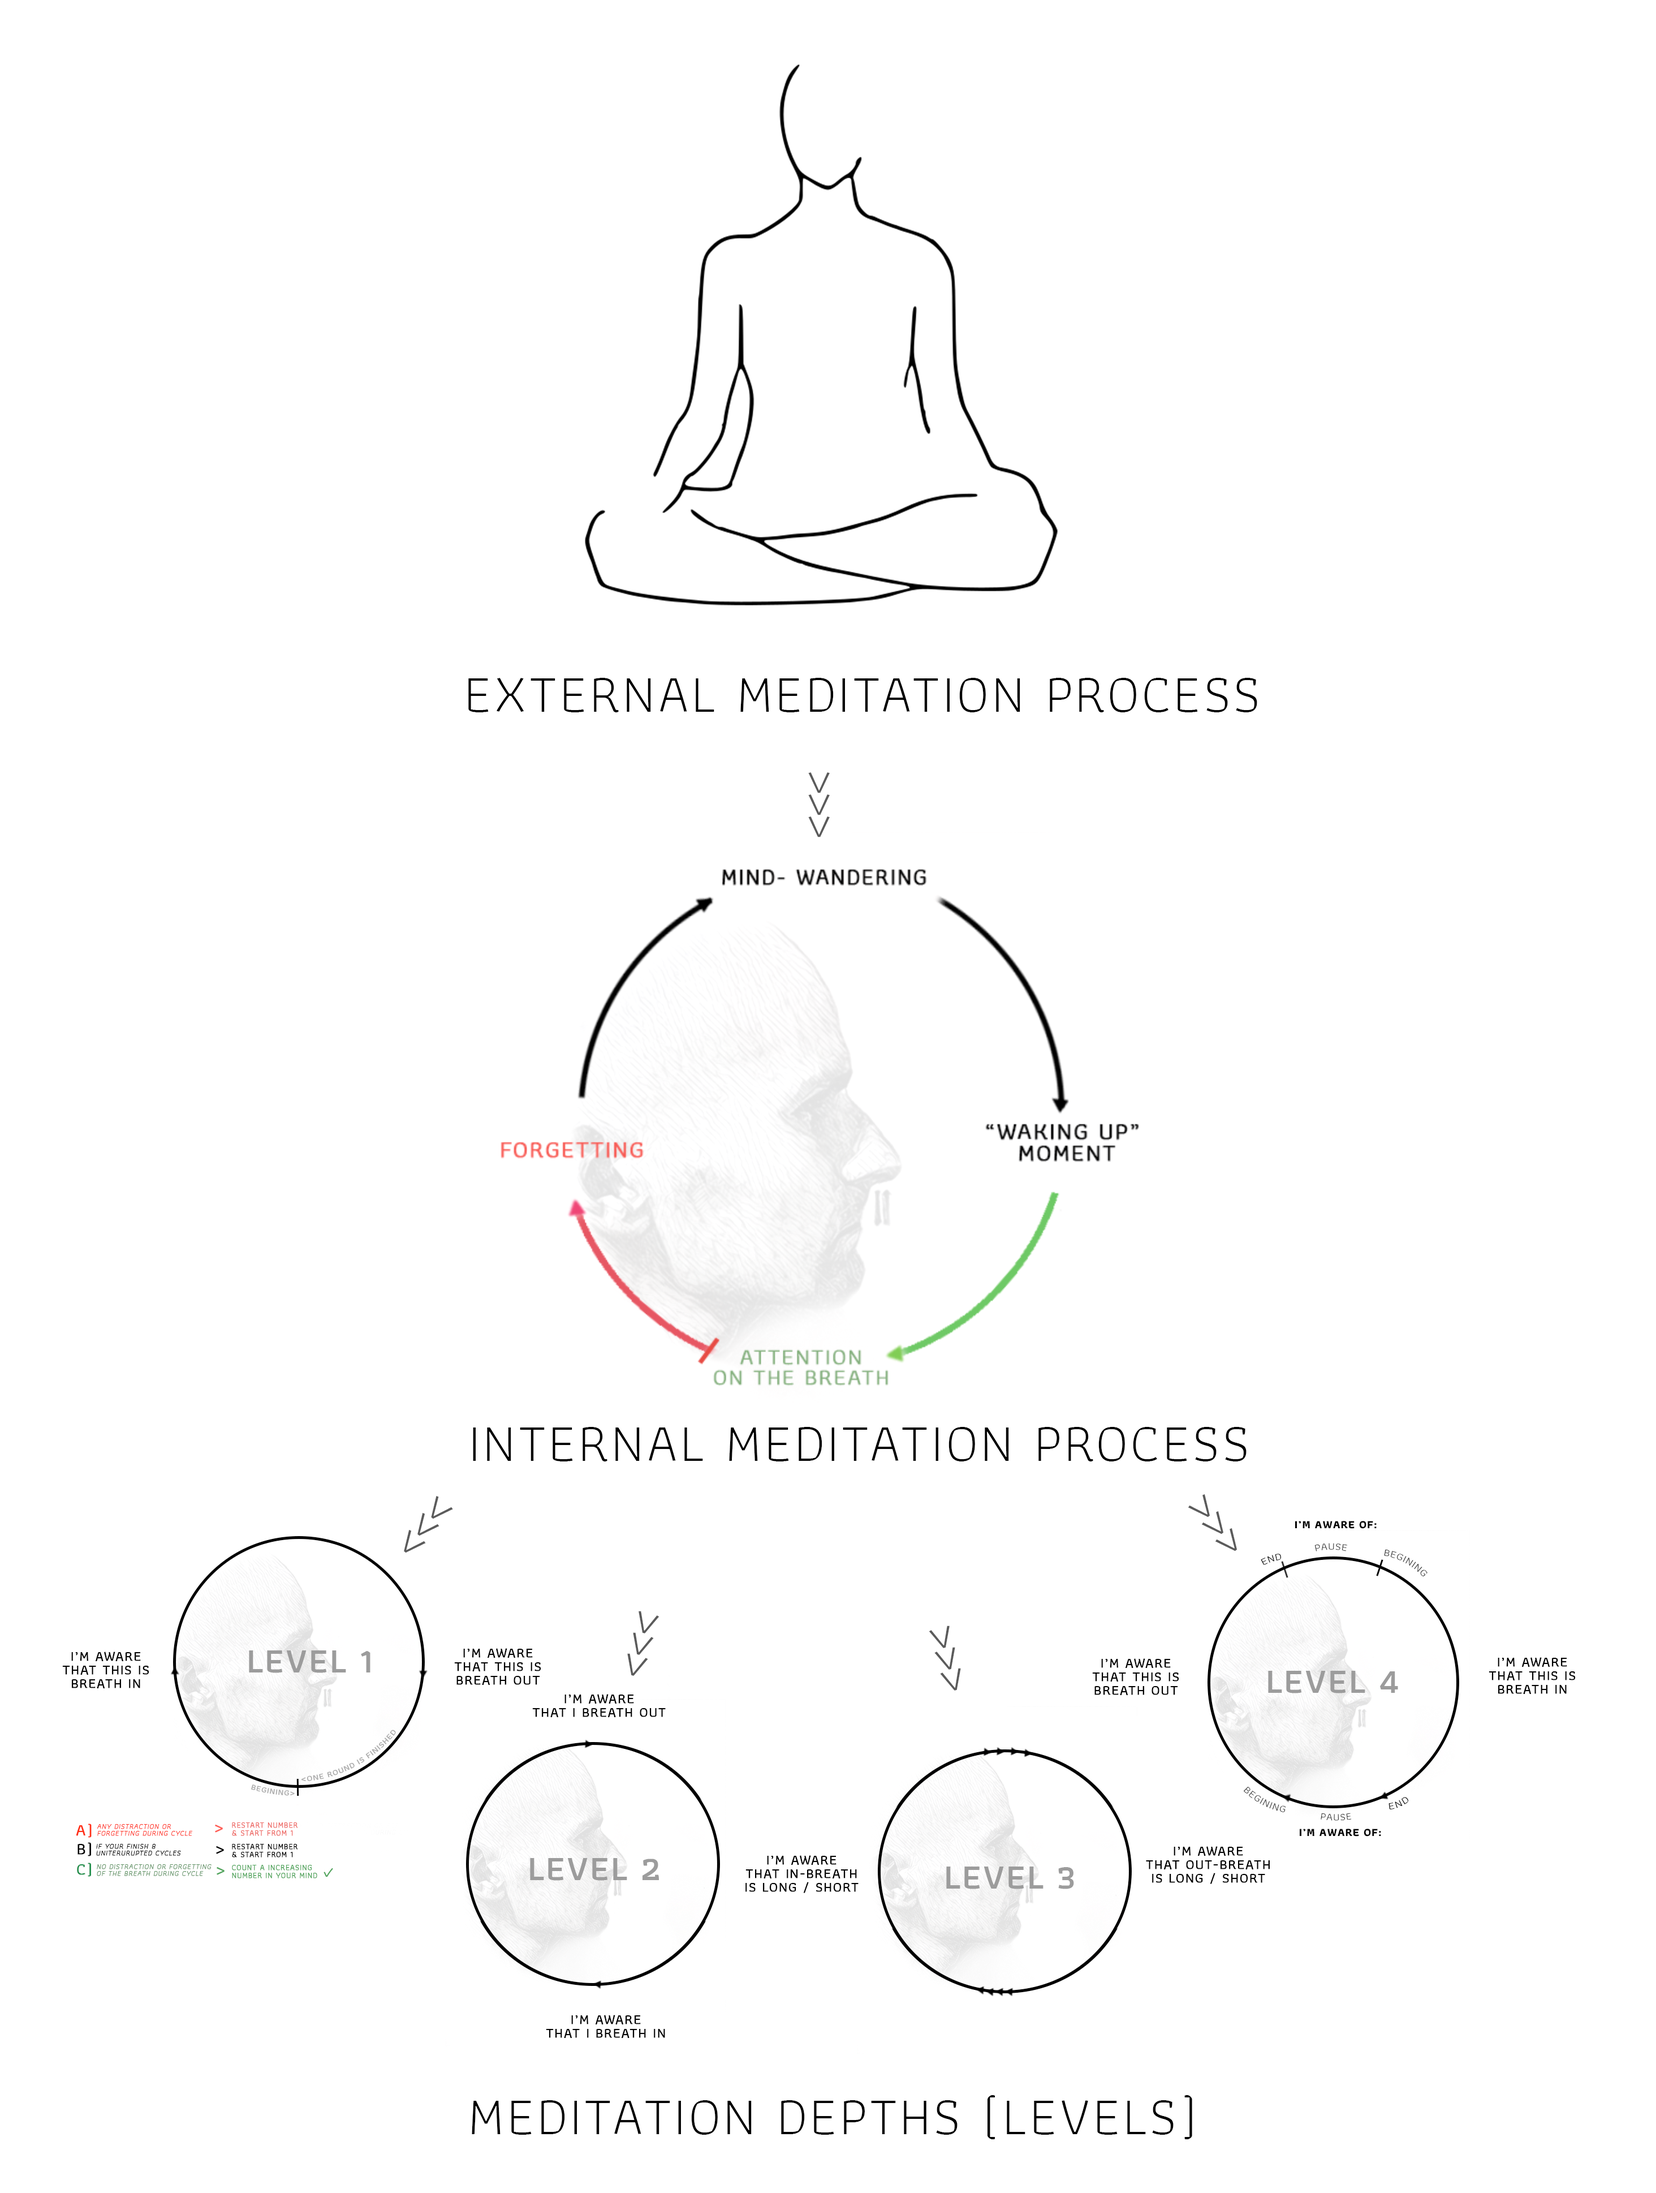
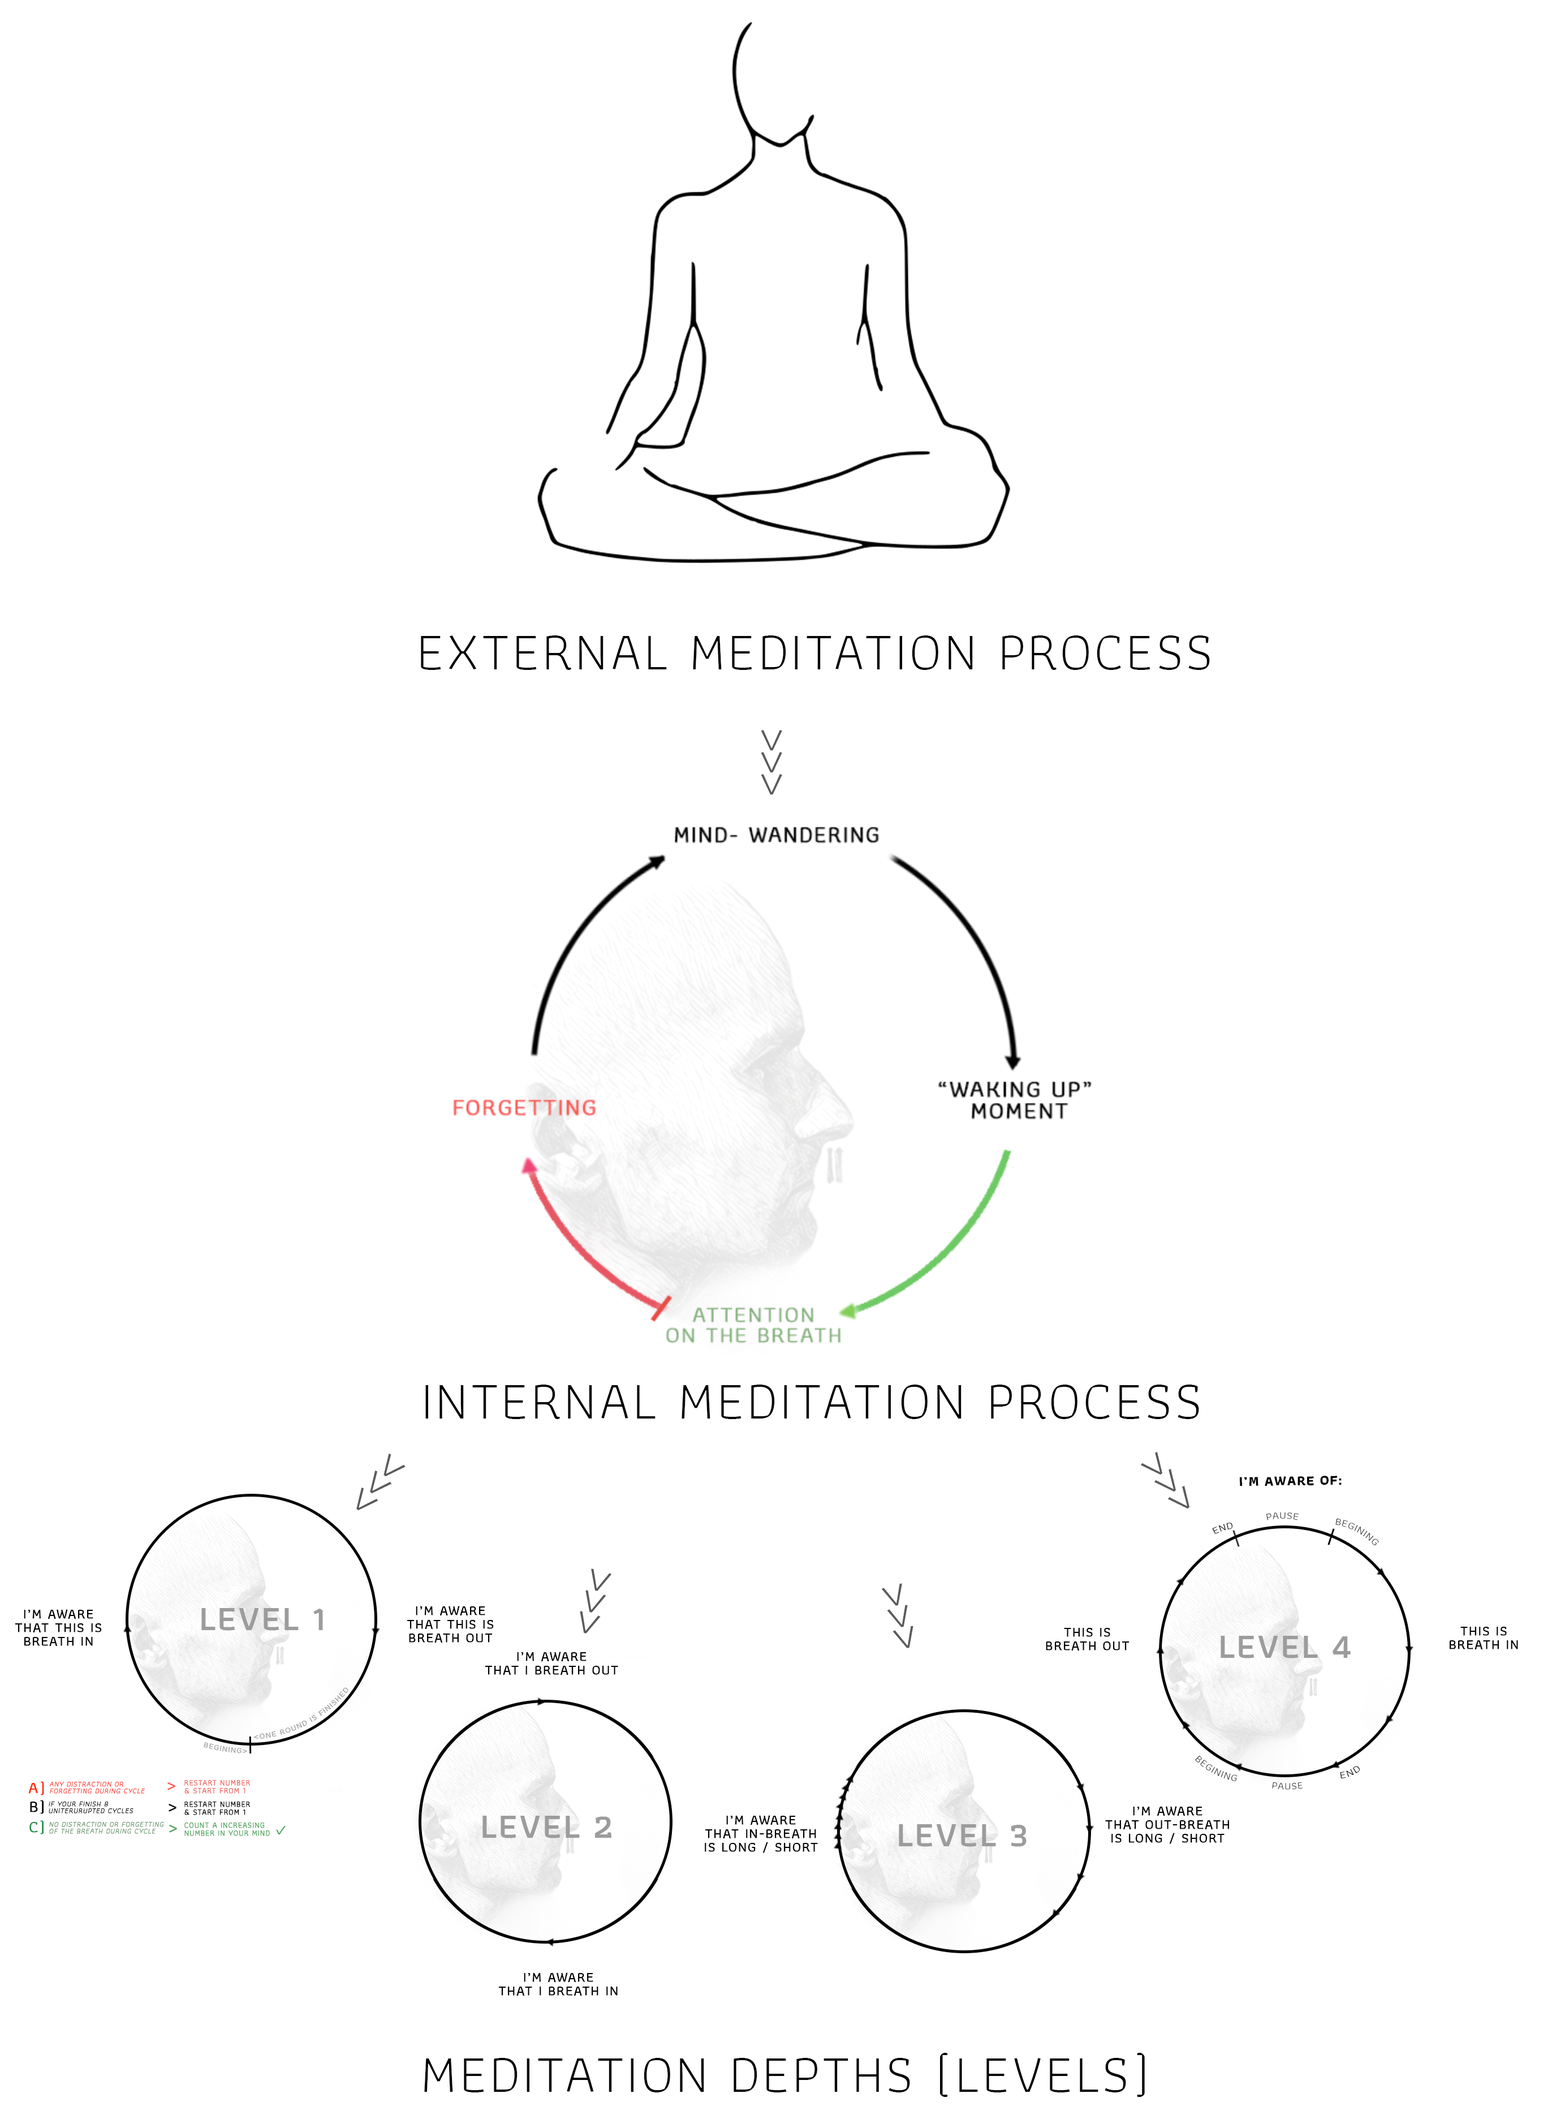
GitBook: [master] one page and 3 assets modified

diff --git a/meditation-anapanasati.md b/meditation-anapanasati.md
@@ -52,7 +52,7 @@ Do not follow the breath going inside or outside. Just be aware of the breath in
 
 13. After you will find it easy, observe even more details of the breath by this diagram:
 
-![LEVEL 4: Detail observation of different  parts / aspects of the breath](.gitbook/assets/anapana_level4.png)
+![LEVEL 4: Detail observation of different  parts / aspects of the breath](.gitbook/assets/anapana_level4%20%282%29.png)
 
 14. Increase the time of your sitting up to 3 hours.   
 15. Congratulations! Now try to find mediation teacher!
